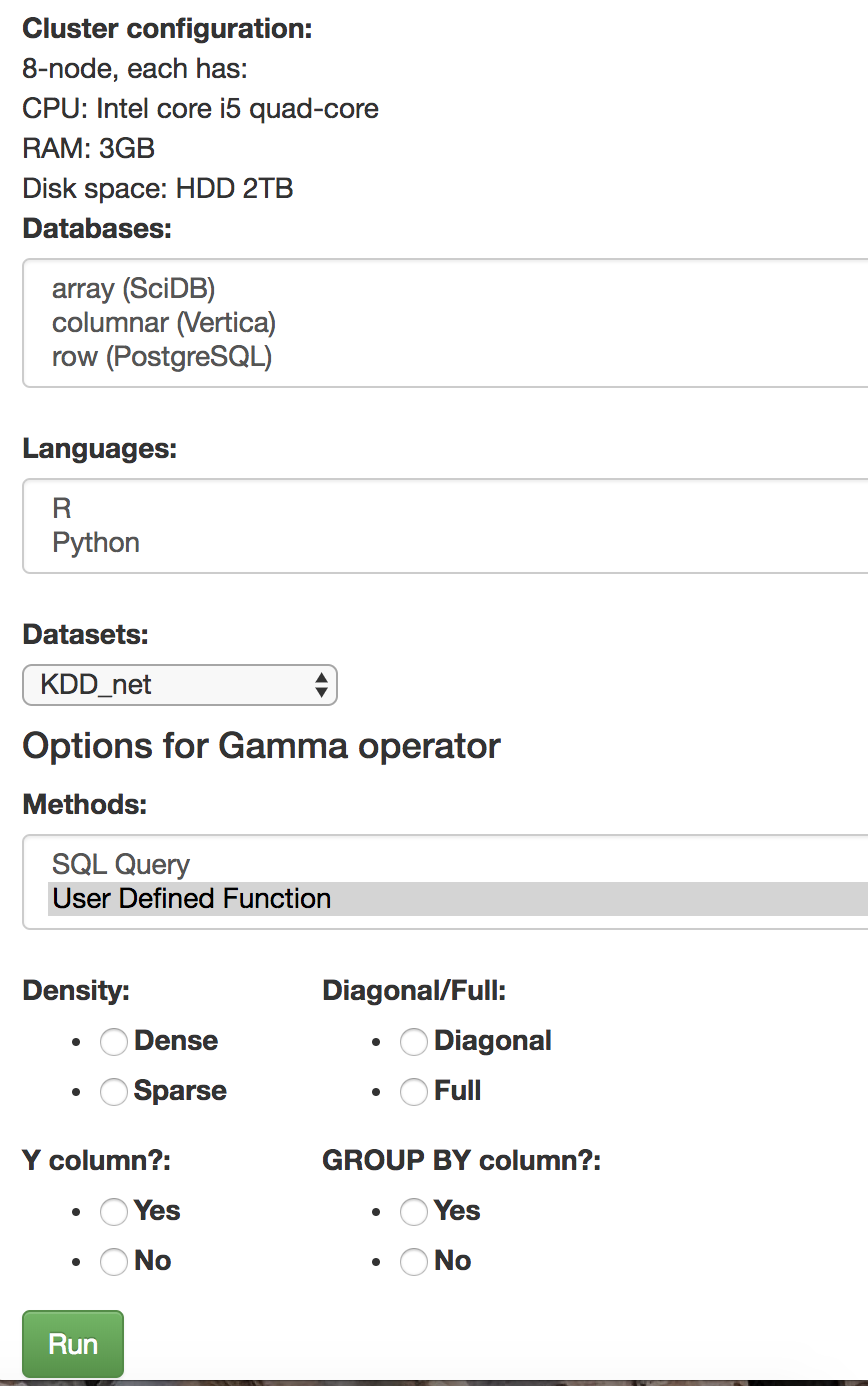
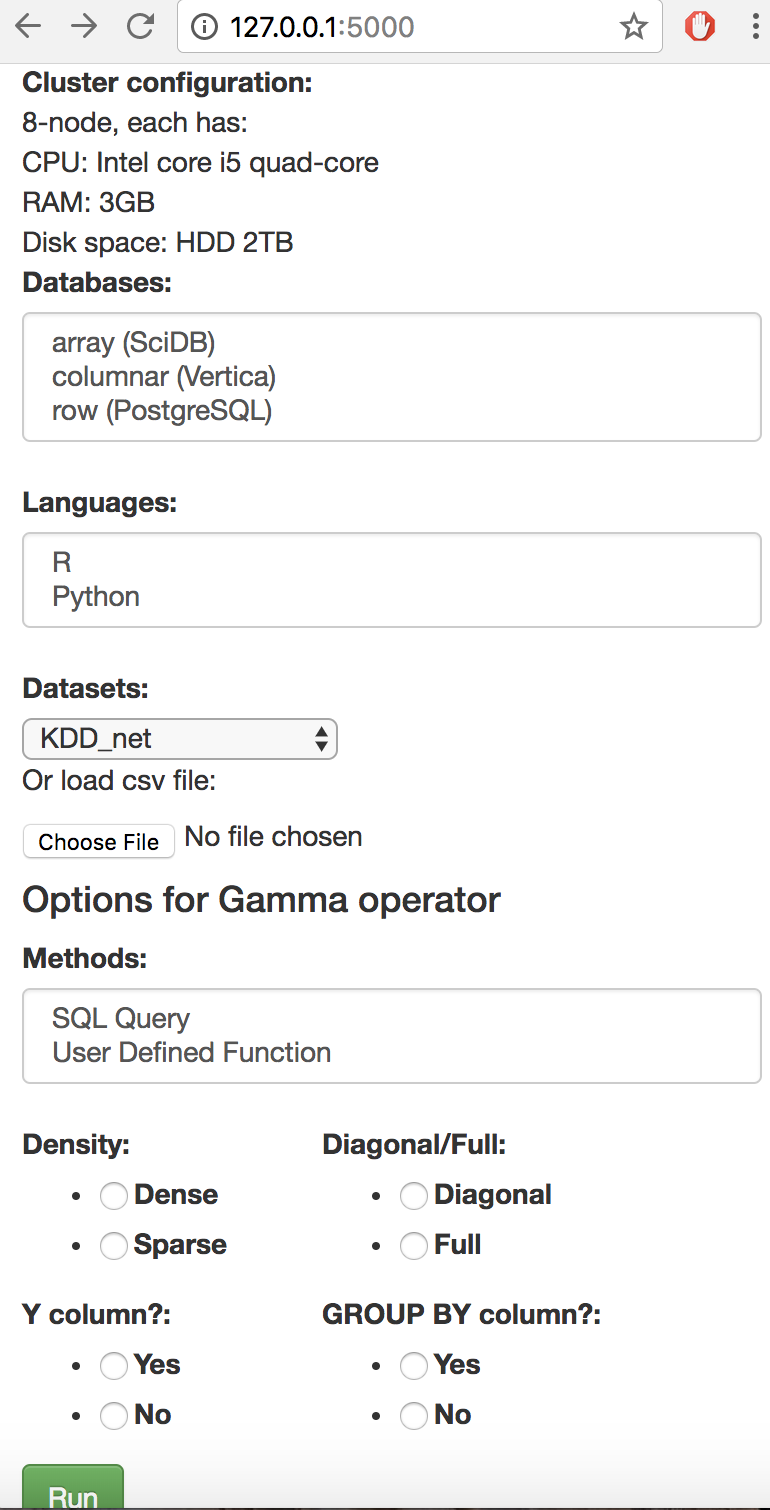
minor changes

diff --git a/templates/hello.html b/templates/hello.html
@@ -33,7 +33,9 @@
             {{ form.dataset.label }}<br>
             {{ form.dataset }}
             <br>
-
+            <p>Or load csv file:</p>
+            {{form.fileName()}}
+            
             <h4>Options for Gamma operator</h4>
             {{ form.gamma_opt_method.label }}<br>
             {{ form.gamma_opt_method(class="form-control", size=2)}}

diff --git a/gamma_demo_mainGUI.py b/gamma_demo_mainGUI.py
@@ -1,5 +1,5 @@
 from flask import Flask, render_template, flash, request, redirect, url_for
-from wtforms import Form, TextField, TextAreaField, validators, StringField, SubmitField, SelectField, RadioField
+from wtforms import Form, TextField, TextAreaField, validators, StringField, SubmitField, SelectField, RadioField, FileField
  
 # App config.
 DEBUG = True
@@ -19,6 +19,8 @@ class SystemChoice(Form):
     dataset = SelectField('Datasets:', 
         choices = [('kdd', 'KDD_net'), ('diabetes', 'Pima Indian Diabetes'), ('wine', 'Wine Quality')], 
         validators=[validators.required()])
+
+    fileName = FileField()
 
     gamma_opt_method = SelectField('Methods:', 
         choices = [('sql', 'SQL Query'), ('udf', 'User Defined Function')], 
